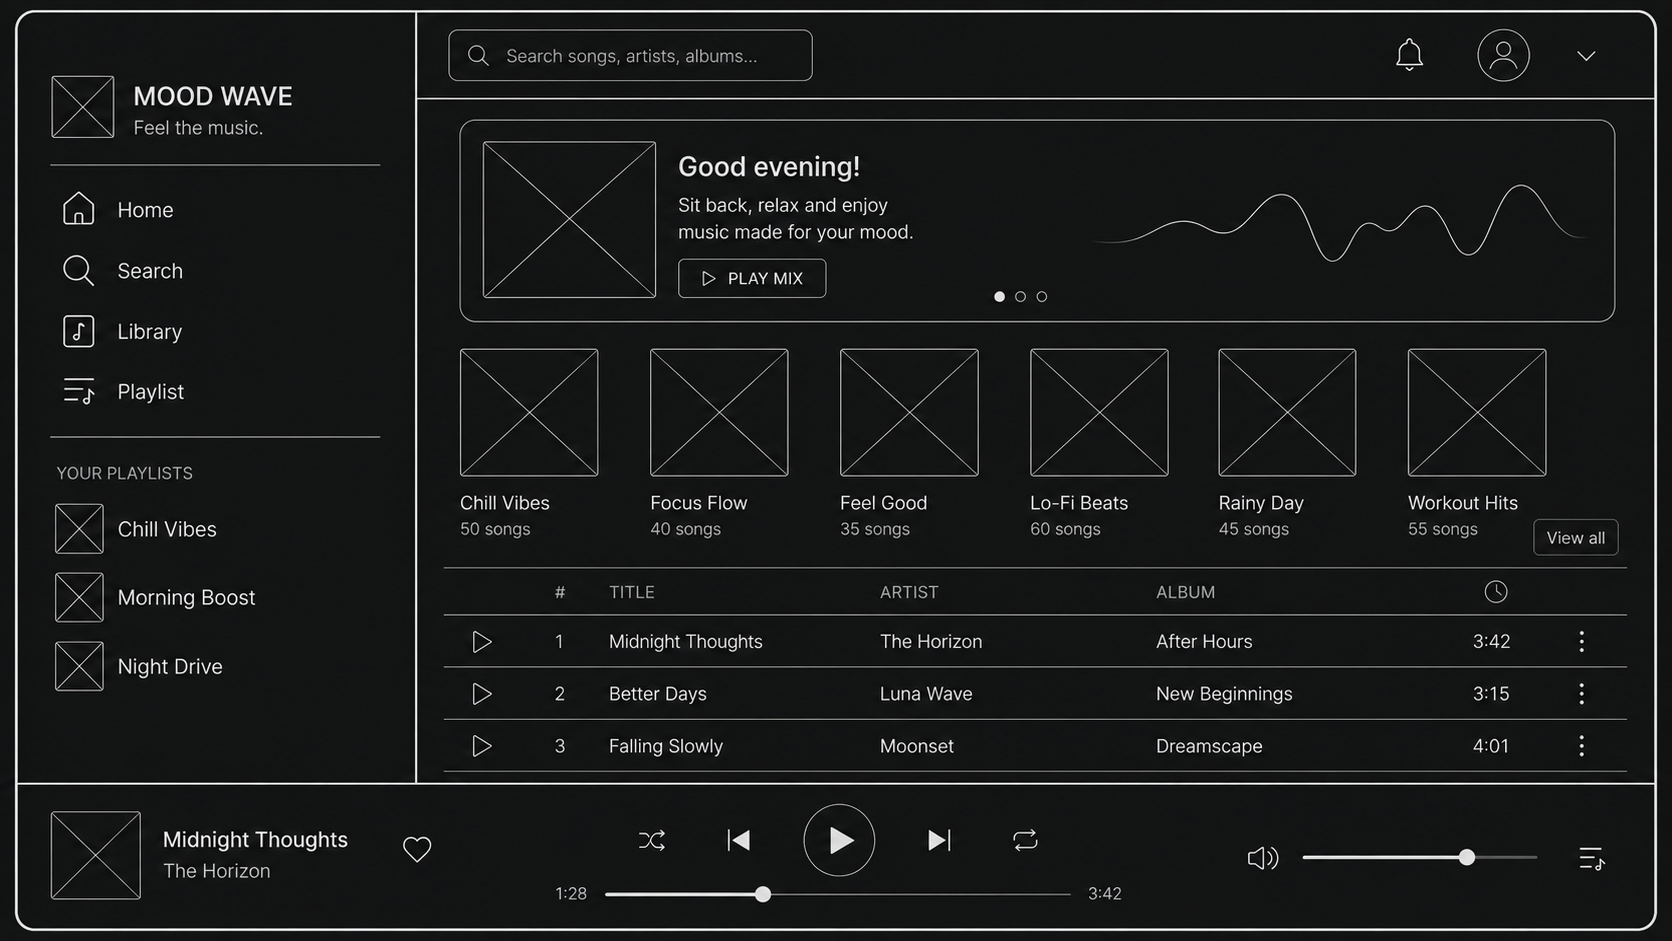
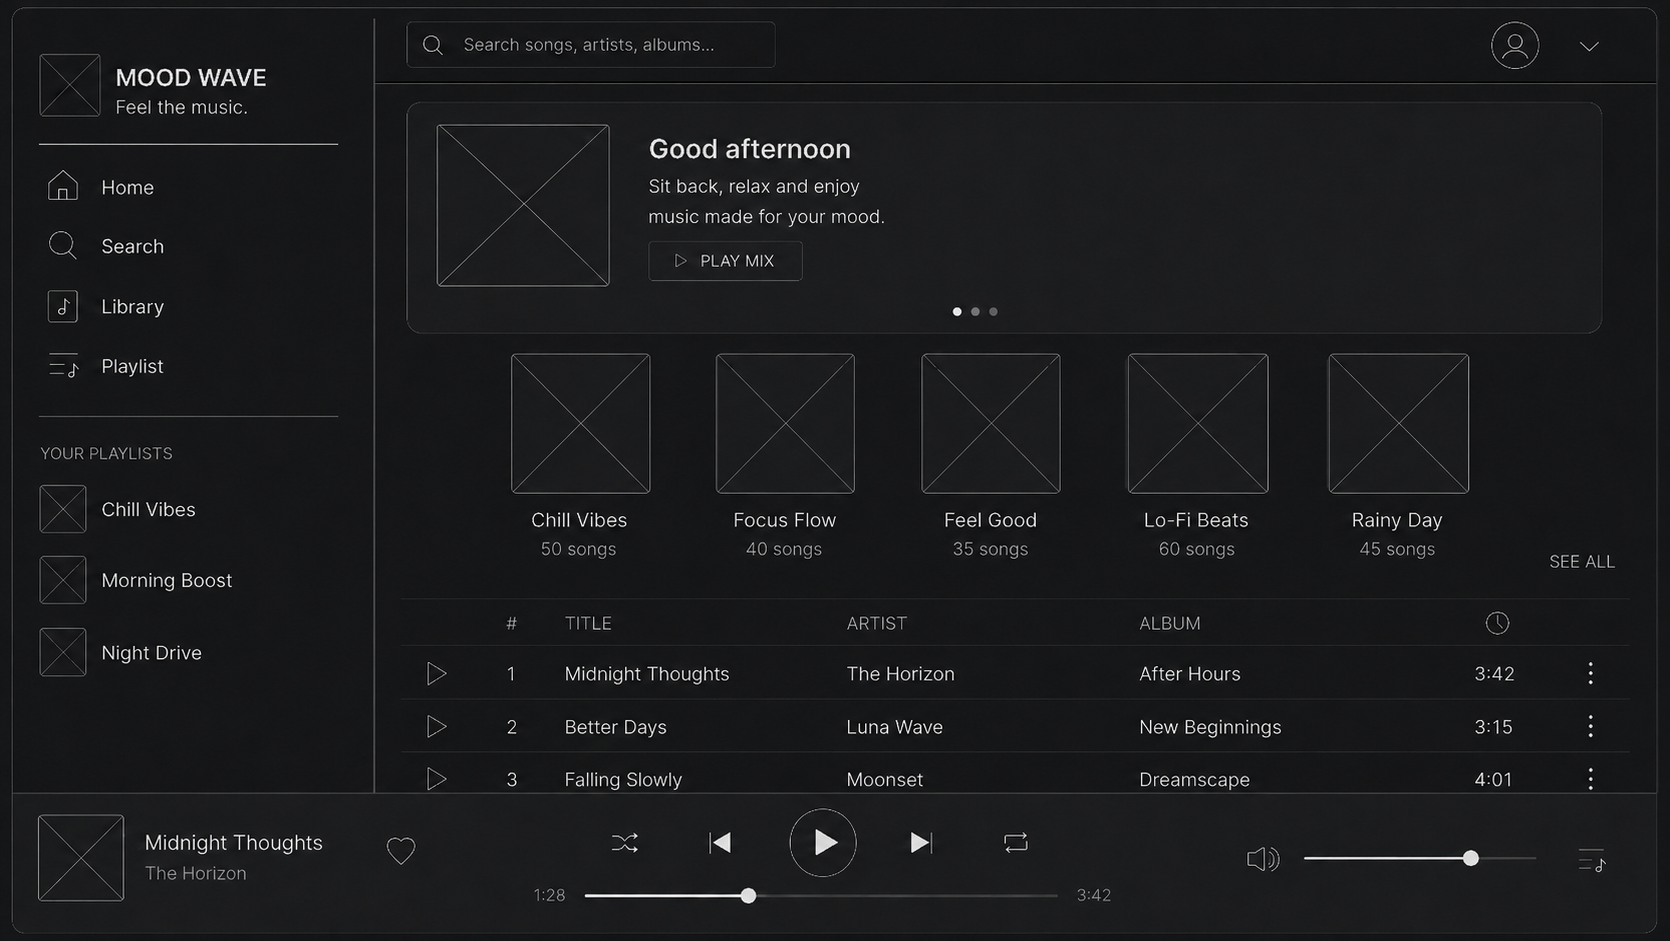
Docs: README용 UI 설계 이미지 수정

diff --git a/README.md b/README.md
@@ -62,8 +62,9 @@ AI 감정 분석, 날씨 기반 추천, 음악 취향 분석 기능을 제공하
   <tr>
     <th width="120px">Frontend</th>
     <td>
+      <img src="https://img.shields.io/badge/Vite-646CFF?style=for-the-badge&logo=vite&logoColor=white"/>
       <img src="https://img.shields.io/badge/HTML-E34F26?style=for-the-badge&logo=html5&logoColor=white"/>
-      <img src="https://img.shields.io/badge/CSS-1572B6?style=for-the-badge&logo=css&logoColor=white"/>
+      <img src="https://img.shields.io/badge/CSS-1572B6?style=for-the-badge&logo=css3&logoColor=white"/>
       <img src="https://img.shields.io/badge/JavaScript-F7DF1E?style=for-the-badge&logo=javascript&logoColor=black"/>
     </td>
   </tr>
@@ -83,8 +84,6 @@ AI 감정 분석, 날씨 기반 추천, 음악 취향 분석 기능을 제공하
     <th width="120px">API</th>
     <td>
       <img src="https://img.shields.io/badge/Spotify%20API-1DB954?style=for-the-badge&logo=spotify&logoColor=white"/>
-      <img src="https://img.shields.io/badge/YouTube%20Data%20API%20v3-FF0000?style=for-the-badge&logo=youtube&logoColor=white"/>
-      <img src="https://img.shields.io/badge/YouTube%20IFrame%20API-FF0000?style=for-the-badge&logo=youtube&logoColor=white"/>
       <img src="https://img.shields.io/badge/OpenAI%20API-412991?style=for-the-badge&logo=openai&logoColor=white"/>
       <img src="https://img.shields.io/badge/OpenWeather%20API-EB6E4B?style=for-the-badge&logo=openweathermap&logoColor=white"/>
     </td>